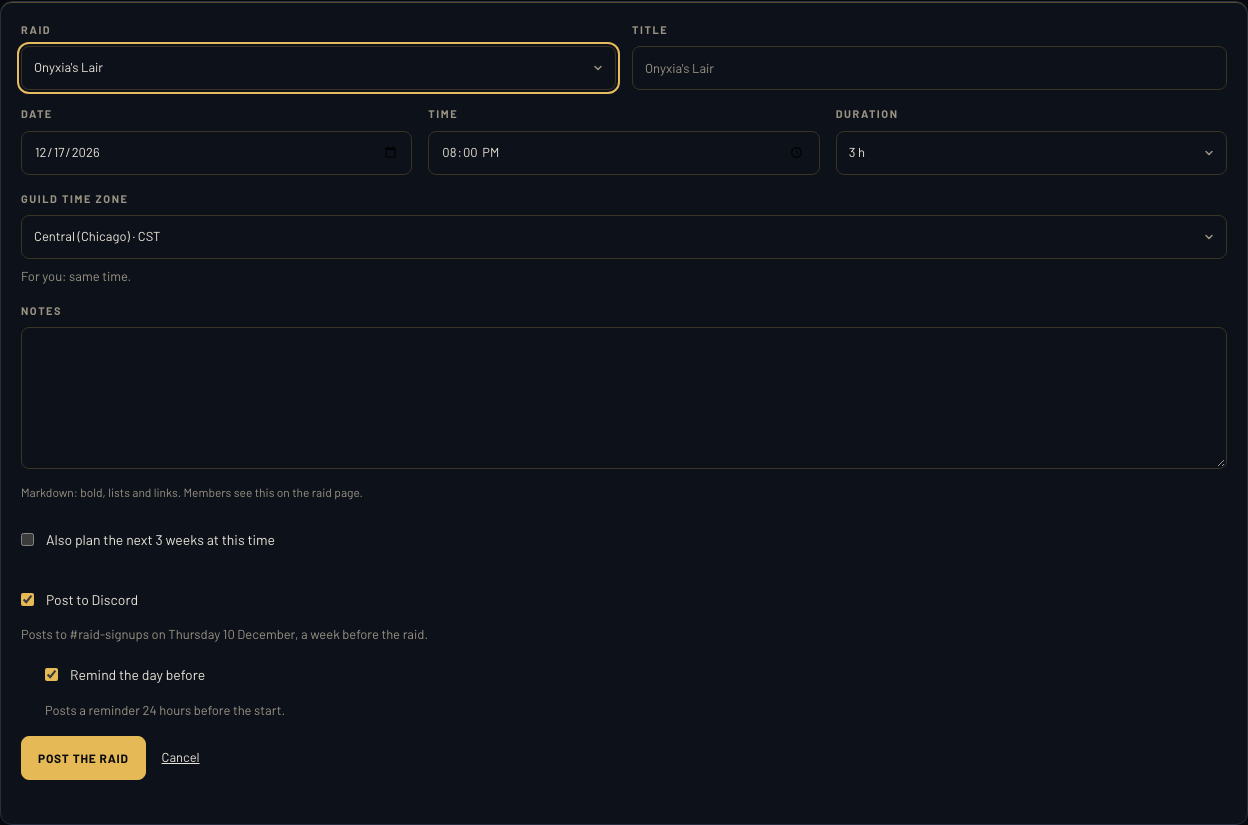
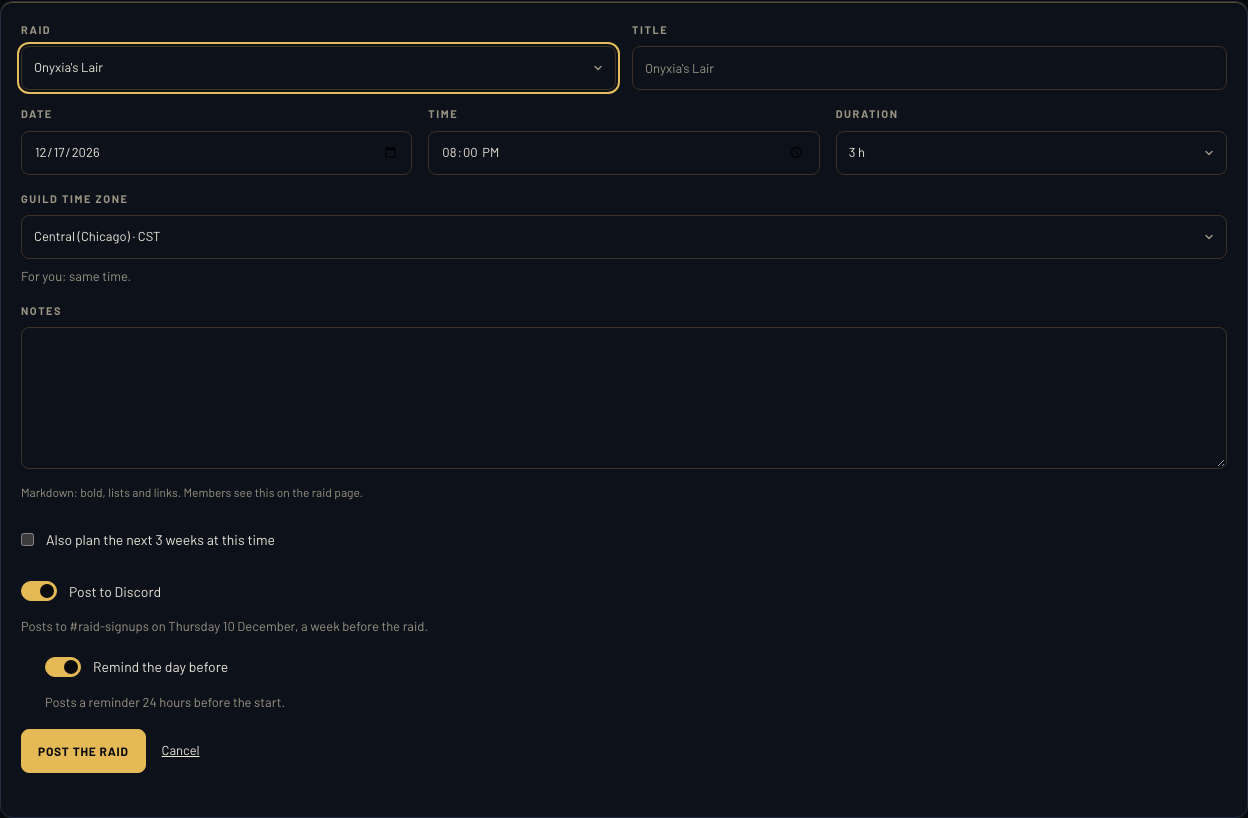
fix(web): the raid form's Discord rows are real switches; an existing raid seeds from its own post

diff --git a/web/src/components/guild/RaidFormDiscord.test.ts b/web/src/components/guild/RaidFormDiscord.test.ts
@@ -51,7 +51,7 @@ describe('RaidFormDiscord', () => {
     expect(text(markup)).toContain(raidCopy.form.postToDiscord);
     const remind = tag(markup, 'raid-form-remind');
     expect(remind).toContain('role="switch"');
-    expect(remind).not.toContain('disabled');
+    expect(remind).not.toMatch(/ disabled(=|\s|\/|>)/);
     expect(text(markup)).toContain(raidCopy.form.remindDayBefore);
     expect(text(markup)).toContain(raidCopy.form.remind);
   });
@@ -61,15 +61,15 @@ describe('RaidFormDiscord', () => {
     const markup = html(off, { postToDiscord: false });
     expect(tag(markup, 'raid-form-discord')).toContain('aria-checked="false"');
     const remind = tag(markup, 'raid-form-remind');
-    expect(remind).toContain('disabled');
+    expect(remind).toMatch(/ disabled(=|\s|\/|>)/);
     expect(remind).toContain('checked');
     expect(remind).toContain('aria-checked="true"');
     expect(text(markup)).toContain(raidCopy.form.remindNeedsPost);
   });
 
   it('reserves its height so the defaults loading shift nothing', () => {
-    expect(html()).toContain('min-h-[120px]');
-    expect(html()).toContain('sm:min-h-[96px]');
+    expect(html()).toContain('min-h-[164px]');
+    expect(html()).toContain('sm:min-h-[144px]');
   });
 
   it('a bot post replaces the switch with the posted line', () => {
@@ -78,14 +78,14 @@ describe('RaidFormDiscord', () => {
     expect(markup).not.toContain('data-testid="raid-form-discord"');
     expect(markup).toContain('data-testid="raid-form-discord-posted"');
     expect(text(markup)).toContain(line);
-    expect(tag(markup, 'raid-form-remind')).not.toContain('disabled');
+    expect(tag(markup, 'raid-form-remind')).not.toMatch(/ disabled(=|\s|\/|>)/);
   });
 
   it('a webhook post keeps the if-the-time-changes box', () => {
     const markup = html({ ...ON, postRow: 'webhookMoved', post: null }, { postToDiscord: false });
     expect(text(markup)).toContain(raidCopy.form.postToDiscordIfMoved);
     expect(tag(markup, 'raid-form-discord')).not.toContain('role="switch"');
-    expect(tag(markup, 'raid-form-remind')).not.toContain('disabled');
+    expect(tag(markup, 'raid-form-remind')).not.toMatch(/ disabled(=|\s|\/|>)/);
   });
 
   it('a sent reminder reads Reminder sent in place of the row', () => {
@@ -96,7 +96,7 @@ describe('RaidFormDiscord', () => {
 
   it('while saving both rows are disabled', () => {
     const markup = html(ON, {}, true);
-    expect(tag(markup, 'raid-form-discord')).toContain('disabled');
-    expect(tag(markup, 'raid-form-remind')).toContain('disabled');
+    expect(tag(markup, 'raid-form-discord')).toMatch(/ disabled(=|\s|\/|>)/);
+    expect(tag(markup, 'raid-form-remind')).toMatch(/ disabled(=|\s|\/|>)/);
   });
 });

diff --git a/web/src/components/guild/RaidFormDiscord.svelte b/web/src/components/guild/RaidFormDiscord.svelte
@@ -19,17 +19,26 @@
 
   let { values, helper, busy, set }: Props = $props();
 
+  /** The inline switch: a 36 x 20 track with a 14 px thumb, gold when on. The input is the track, so
+   *  the row's label stays the 44 px hit area. The polish lane's shared Switch replaces this. */
+  const SWITCH =
+    'relative h-5 w-9 shrink-0 cursor-pointer appearance-none rounded-full border border-line bg-bg transition-colors ' +
+    "before:absolute before:top-1/2 before:left-0.5 before:h-3.5 before:w-3.5 before:-translate-y-1/2 before:rounded-full before:bg-muted before:transition-transform before:content-[''] " +
+    'checked:border-gold checked:bg-gold checked:before:translate-x-4 checked:before:bg-bg ' +
+    'focus-visible:outline-2 focus-visible:outline-offset-2 focus-visible:outline-gold disabled:cursor-not-allowed';
+
   const uid = $props.id();
   const postHelperId = `${uid}-post-helper`;
   const remindHelperId = `${uid}-remind-helper`;
   const locked = $derived(remindLocked(values, helper.postRow));
 </script>
 
-<div class="flex min-h-[120px] flex-col sm:min-h-[96px]">
+<div class="-mt-2 flex min-h-[164px] flex-col sm:min-h-[144px]">
   {#if helper.postRow === 'switch'}
     <label class={CHECK_ROW}>
       <input
         type="checkbox"
+        class={SWITCH}
         role="switch"
         checked={values.postToDiscord}
         aria-checked={values.postToDiscord}
@@ -44,7 +53,7 @@
       {helper.post}
     </p>
   {:else if helper.postRow === 'posted'}
-    <p class="text-muted flex min-h-11 items-center text-[13px]" data-testid="raid-form-discord-posted">
+    <p class="text-muted mt-1 text-[13px]" data-testid="raid-form-discord-posted">
       {helper.post}
     </p>
   {:else}
@@ -65,6 +74,7 @@
       <label class="{CHECK_ROW} {locked ? DISABLED_LOOK : ''}">
         <input
           type="checkbox"
+          class={SWITCH}
           role="switch"
           checked={values.remindDayBefore}
           aria-checked={values.remindDayBefore}
@@ -83,7 +93,7 @@
         {helper.remind}
       </p>
     {:else}
-      <p class="text-muted flex min-h-11 items-center text-[13px]" data-testid="raid-form-remind-helper">
+      <p class="text-muted mt-1 text-[13px]" data-testid="raid-form-remind-helper">
         {helper.remind}
       </p>
     {/if}

diff --git a/web/tests/e2e/guild-raids.spec.ts b/web/tests/e2e/guild-raids.spec.ts
@@ -539,25 +539,32 @@ test.describe('Post to Discord and the reminder (guided cards P.3)', () => {
   });
 
   for (const viewport of [PHONE, { width: 1440, height: 900 }]) {
-    test(`no layout shift as the defaults load at ${viewport.width}`, async ({ page }) => {
+    test(`the form and its Discord block shift nothing inside the form at ${viewport.width}`, async ({
+      page,
+    }) => {
       await page.setViewportSize(viewport);
       await page.addInitScript(() => {
         const shifts: number[] = [];
         Object.assign(window, { __shifts: shifts });
+        const inForm = (node: Node | null): boolean =>
+          (node instanceof Element ? node : (node?.parentElement ?? null))?.closest(
+            '[data-testid="raid-form-create"]',
+          ) != null;
+        type Shift = { value: number; hadRecentInput: boolean; sources: { node: Node | null }[] };
         new PerformanceObserver((list) => {
-          for (const entry of list.getEntries() as unknown as { value: number; hadRecentInput: boolean }[])
-            if (!entry.hadRecentInput) shifts.push(entry.value);
+          for (const entry of list.getEntries() as unknown as Shift[])
+            if (!entry.hadRecentInput && entry.sources.some((source) => inForm(source.node)))
+              shifts.push(entry.value);
         }).observe({ type: 'layout-shift', buffered: true });
       });
       await openRaidsTab(page, { viewer: 'officer', ...BOT_CHANNEL });
       await openForm(page);
       await expect(page.getByTestId('raid-form-discord-helper')).toBeVisible();
-      await page.evaluate(() => ((window as unknown as { __shifts: number[] }).__shifts.length = 0));
       await page.waitForTimeout(300);
       const height = await page
         .getByTestId('raid-form-discord')
         .evaluate((node) => node.closest('label')?.parentElement?.getBoundingClientRect().height ?? 0);
-      expect(height).toBeGreaterThanOrEqual(viewport.width < 640 ? 120 : 96);
+      expect(height).toBeGreaterThanOrEqual(viewport.width < 640 ? 164 : 144);
       const shifts = await page.evaluate(() => (window as unknown as { __shifts: number[] }).__shifts);
       expect(shifts.reduce((sum, value) => sum + value, 0)).toBe(0);
     });

diff --git a/web/src/lib/guild/raid-form.test.ts b/web/src/lib/guild/raid-form.test.ts
@@ -443,4 +443,22 @@ describe('remind defaults', () => {
     );
     expect(editDefaults(view({ discord_post: null }), CHICAGO).remindDayBefore).toBe(true);
   });
+
+  it('a new raid seeds Post to Discord from the guild default', () => {
+    expect(createDefaults({ ...dflt, discord: BOT }).postToDiscord).toBe(true);
+    expect(createDefaults({ ...dflt, discord: { ...BOT, post_default: false } }).postToDiscord).toBe(false);
+  });
+
+  it('an existing raid without a post is off, whatever the guild default', () => {
+    expect(editDefaults(raid({ discord: BOT, discord_post: null }), CHICAGO).postToDiscord).toBe(false);
+  });
+
+  it('an existing posted raid is on with its own remind', () => {
+    const d = editDefaults(
+      raid({ discord: { ...BOT, post_default: false }, discord_post: posted({ remind: false }) }),
+      CHICAGO,
+    );
+    expect(d.postToDiscord).toBe(true);
+    expect(d.remindDayBefore).toBe(false);
+  });
 });

diff --git a/web/src/lib/characters.test.ts b/web/src/lib/characters.test.ts
@@ -220,6 +220,13 @@ describe('parseGuildRaidPath', () => {
     expect(parseGuildRaidPath('/guild/us/pvp/olympus-xxvii/raids/12/')?.raidId).toBe('12');
   });
 
+  it('resolves the guided-cards P.6 example the bot and webhooks post', () => {
+    expect(parseGuildRaidPath('/guild/us/normal/olympus-xxvii/raids/1')).toEqual({
+      guild: { region: 'us', ruleset: 'normal', slug: 'olympus-xxvii' },
+      raidId: '1',
+    });
+  });
+
   it('refuses a non-numeric id, a bare /raids and other suffixes', () => {
     expect(parseGuildRaidPath('/guild/us/pvp/olympus-xxvii/raids/abc')).toBeNull();
     expect(parseGuildRaidPath('/guild/us/pvp/olympus-xxvii/raids')).toBeNull();

diff --git a/web/src/components/guild/RaidForm.test.ts b/web/src/components/guild/RaidForm.test.ts
@@ -241,7 +241,7 @@ describe('RaidForm', () => {
     expect(markup).toContain('raid-form-discord-posted');
     expect(text(markup)).toContain(raidCopy.form.posted('#raid-signups'));
     expect(markup).not.toContain('data-testid="raid-form-discord"');
-    expect(tag(markup, 'raid-form-remind')).not.toContain('disabled');
+    expect(tag(markup, 'raid-form-remind')).not.toMatch(/ disabled(=|\s|\/|>)/);
   });
 
   it('edit of a webhook post keeps Post to Discord if the time changes', () => {

diff --git a/web/src/lib/guild/raid-form.ts b/web/src/lib/guild/raid-form.ts
@@ -135,7 +135,7 @@ export function editDefaults(raid: GuildRaidView, timezone: string): RaidFormVal
     timezone,
     notes: raid.notes ?? '',
     repeat: false,
-    postToDiscord: raid.discord.post_default,
+    postToDiscord: raid.discord_post !== null,
     remindDayBefore: raid.discord_post?.remind ?? raid.discord.remind_default,
   };
 }

diff --git a/web/src/components/guild/RaidForm.svelte b/web/src/components/guild/RaidForm.svelte
@@ -23,7 +23,6 @@
     createDefaults,
     discordFormPart,
     discordHelper,
-    startOf,
     discordSettingsHref,
     durationOptions,
     editDefaults,
@@ -32,6 +31,7 @@
     raidPayload,
     repeatHelper,
     splitAtLink,
+    startOf,
     validateRaidForm,
     type RaidFormErrors,
     type RaidFormField,
